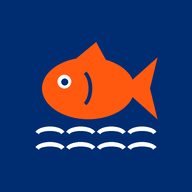
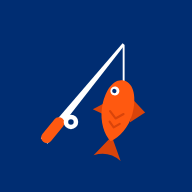
Neues App-Symbol: Angelrute mit gefangenem Fisch (#6)
- werkzeuge/symbol_erzeugen.js erzeugt alle Symbole aus einer Vorlage (Web + Android)
- alte Symbol-Programme entfernt, Offline-Speicher-Version erhöht
- Prüfung und Tagebuch ergänzt

Claude-Session: https://claude.ai/code/session_01PRfiDyBxwvKhtj8R6WgeQX

Changed region(s): [[0.1875, 0.2188, 0.8438, 0.8438]]

diff --git a/werkzeuge/symbol_erzeugen.js b/werkzeuge/symbol_erzeugen.js
@@ -1,0 +1,105 @@
+// Zeichnet das App-Symbol (Angelrute mit gefangenem Fisch) und erzeugt daraus:
+//   icons/symbol.svg, icons/icon-192.png, icons/icon-512.png, icons/apple-touch-icon.png, icons/favicon.png
+//   android/app/src/main/res/drawable/ic_launcher_foreground.xml
+// Start (im Projektordner): node werkzeuge/symbol_erzeugen.js     (braucht Playwright mit Chromium)
+// Das Motiv steht unten in MOTIV, Koordinaten 0..100. Alles bleibt im Kreis mit Radius 40 um die Mitte,
+// damit Android und Chrome es bei runden Symbolen nicht abschneiden.
+const fs = require('fs');
+const path = require('path');
+const ROOT = path.resolve(__dirname, '..');
+
+const BLAU = '#002D72', ORANGE = '#FF5910', ORANGE_DUNKEL = '#D9440A', WEISS = '#FFFFFF';
+
+const kreis = (cx, cy, r) => `M${cx - r},${cy} a${r},${r} 0 1,0 ${2 * r},0 a${r},${r} 0 1,0 ${-2 * r},0 Z`;
+
+// Der Fisch wird um sein Maul (66,41) gedreht, als würde er an der Schnur zappeln.
+// Ganzes Motiv etwas verkleinern, damit nichts über den Rand ragt.
+const MASSSTAB = 0.9;
+
+const FISCH_DREHUNG = { winkel: 12, x: 66, y: 41 };
+
+const MOTIV = [
+  // Schnur von der Rutenspitze zum Maul des Fisches
+  { stroke: WEISS, breite: 1.1, d: 'M66,21 L66,41.5' },
+  // Angelrute (wird zur Spitze hin dünner)
+  { fill: WEISS, d: 'M18.07,74.41 L65.38,19.49 L66.62,20.51 L21.93,77.59 Z' },
+  // Griff
+  { stroke: ORANGE, breite: 6.5, d: 'M21.5,74 L28.5,65.5' },
+  // Rolle
+  { fill: WEISS, d: kreis(35.5, 65, 4.2) },
+  { fill: BLAU, d: kreis(35.5, 65, 1.6) },
+  // ---- ab hier: Fisch (gedreht) ----
+  // Schwanzflosse
+  { fisch: true, fill: ORANGE_DUNKEL, d: 'M66,74 L58,87 Q66,82.5 74,87 Z' },
+  // Rückenflosse und Brustflosse
+  { fisch: true, fill: ORANGE_DUNKEL, d: 'M74,51 L82,56.5 L74.5,64 Z' },
+  { fisch: true, fill: ORANGE_DUNKEL, d: 'M58,56 L52,61 L58.3,62.5 Z' },
+  // Körper (hängt mit dem Maul nach oben)
+  { fisch: true, fill: ORANGE, d: 'M66,41 C72.5,41 75.5,50 75,59 C74.5,67 70.5,74 66,77 C61.5,74 57.5,67 57,59 C56.5,50 59.5,41 66,41 Z' },
+  // Schuppen-Andeutung
+  { fisch: true, stroke: ORANGE_DUNKEL, breite: 1.2, d: 'M62,60 L66,63.5 L70,60' },
+  { fisch: true, stroke: ORANGE_DUNKEL, breite: 1.2, d: 'M63,66 L66,68.8 L69,66' },
+  // Auge
+  { fisch: true, fill: WEISS, d: kreis(62.3, 48, 2.6) },
+  { fisch: true, fill: BLAU, d: kreis(62, 48.1, 1.25) },
+];
+
+function svgTeil(t) {
+  return t.fill
+    ? `<path fill="${t.fill}" d="${t.d}"/>`
+    : `<path fill="none" stroke="${t.stroke}" stroke-width="${t.breite}" stroke-linecap="round" stroke-linejoin="round" d="${t.d}"/>`;
+}
+
+function svg(groesse, rund = false) {
+  const { winkel, x, y } = FISCH_DREHUNG;
+  const teile = [
+    ...MOTIV.filter(t => !t.fisch).map(svgTeil),
+    `<g transform="rotate(${winkel} ${x} ${y})">`, ...MOTIV.filter(t => t.fisch).map(svgTeil), '</g>'];
+  const verschiebung = 50 * (1 - MASSSTAB);
+  const hg = rund ? `<rect width="100" height="100" rx="22" fill="${BLAU}"/>` : `<rect width="100" height="100" fill="${BLAU}"/>`;
+  return `<svg xmlns="http://www.w3.org/2000/svg" viewBox="0 0 100 100" width="${groesse}" height="${groesse}">${hg}<g transform="translate(${verschiebung} ${verschiebung}) scale(${MASSSTAB})">${teile.join('')}</g></svg>`;
+}
+
+function androidTeil(t, einzug) {
+  return einzug + (t.fill
+    ? `<path android:fillColor="${t.fill}" android:pathData="${t.d}" />`
+    : `<path android:strokeColor="${t.stroke}" android:strokeWidth="${t.breite}" android:strokeLineCap="round" android:strokeLineJoin="round" android:pathData="${t.d}" />`);
+}
+
+function androidXml() {
+  const { winkel, x, y } = FISCH_DREHUNG;
+  const teile = [
+    ...MOTIV.filter(t => !t.fisch).map(t => androidTeil(t, '        ')),
+    `        <group android:rotation="${winkel}" android:pivotX="${x}" android:pivotY="${y}">`,
+    ...MOTIV.filter(t => t.fisch).map(t => androidTeil(t, '            ')),
+    '        </group>'];
+  return `<?xml version="1.0" encoding="utf-8"?>
+<!-- Angelrute mit gefangenem Fisch (Mets-Farben). Erzeugt von werkzeuge/symbol_erzeugen.js – nicht von Hand ändern.
+     Motiv 0..100 wird in die sichtbare Mitte des Android-Bereichs 108x108 gesetzt. -->
+<vector xmlns:android="http://schemas.android.com/apk/res/android"
+    android:width="108dp" android:height="108dp"
+    android:viewportWidth="108" android:viewportHeight="108">
+    <group android:translateX="${(18 + 0.72 * 50 * (1 - MASSSTAB)).toFixed(3)}" android:translateY="${(18 + 0.72 * 50 * (1 - MASSSTAB)).toFixed(3)}" android:scaleX="${(0.72 * MASSSTAB).toFixed(4)}" android:scaleY="${(0.72 * MASSSTAB).toFixed(4)}">
+${teile.join('\n')}
+    </group>
+</vector>
+`;
+}
+
+(async () => {
+  const { chromium } = require('playwright');
+  fs.mkdirSync(path.join(ROOT, 'icons'), { recursive: true });
+  fs.writeFileSync(path.join(ROOT, 'icons/symbol.svg'), svg(512));
+  fs.writeFileSync(path.join(ROOT, 'android/app/src/main/res/drawable/ic_launcher_foreground.xml'), androidXml());
+
+  const browser = await chromium.launch();
+  const page = await browser.newPage();
+  const ziele = [['icon-192.png', 192, false], ['icon-512.png', 512, false], ['apple-touch-icon.png', 180, false], ['favicon.png', 64, true]];
+  for (const [name, g, rund] of ziele) {
+    await page.setViewportSize({ width: g, height: g });
+    await page.setContent(`<html><body style="margin:0;background:transparent">${svg(g, rund)}</body></html>`);
+    await page.screenshot({ path: path.join(ROOT, 'icons', name), omitBackground: true });
+  }
+  await browser.close();
+  console.log('Symbole erzeugt: icons/ und android/.../ic_launcher_foreground.xml');
+})();

diff --git a/sw.js b/sw.js
@@ -1,6 +1,6 @@
 // Service Worker: sorgt dafür, dass die App auch ohne Internet startet.
 // Bei Änderungen an der App die Versionsnummer erhöhen.
-const VERSION = 'fischfang-v2';
+const VERSION = 'fischfang-v3';
 const APP_DATEIEN = [
   './',
   './index.html',

diff --git a/test/pruefung.py b/test/pruefung.py
@@ -46,6 +46,9 @@ for icon in m.get("icons", []):
         pruefe(g == erwartet, f"{icon['src']} hat Größe {icon['sizes']} (ist {g})")
         groessen.add(icon["sizes"])
 pruefe({"192x192", "512x512"} <= groessen, "Symbole in 192 und 512 Pixel (nötig für Installation in Chrome)")
+pruefe((ROOT / "icons/symbol.svg").exists(), "Vorlage des Symbols vorhanden (icons/symbol.svg)")
+fg = (ROOT / "android/app/src/main/res/drawable/ic_launcher_foreground.xml").read_text(encoding="utf-8")
+pruefe("symbol_erzeugen.js" in fg, "Android-Symbol stammt aus derselben Vorlage wie die Web-Symbole")
 pruefe(any("maskable" in i.get("purpose", "") for i in m.get("icons", [])), "Symbol für runde Android-Form (maskable)")
 
 # 3. index.html verweist auf alles

diff --git a/CLAUDE.md b/CLAUDE.md
@@ -17,13 +17,12 @@ Fangort auf der Karte, Fischart, Größe, Notizen – per Hand oder per Sprache.
 | `Startbild.jpg` | Bild auf dem Startbildschirm |
 | `manifest.json` | „Steckbrief“ der App: Name, Symbol, Farben – damit man sie installieren kann |
 | `sw.js` | Offline-Helfer (Service Worker): speichert die App im Handy, damit sie ohne Internet startet |
-| `icons/` | App-Symbole (blauer Hintergrund, oranger Fisch) |
-| `werkzeuge/symbole_erzeugen.py` | Hilfsprogramm, das die Symbole neu zeichnet |
+| `icons/` | App-Symbole: weiße Angelrute mit gefangenem orangen Fisch auf Mets-Blau |
+| `werkzeuge/symbol_erzeugen.js` | Zeichnet das Symbol und erzeugt daraus alle Symbol-Dateien (Web + Android) |
 | `test/pruefung.py` | Automatische Prüfung |
 | `test/app_simulation.js` | Spielt die Android-App im Browser nach (Teil der Prüfung) |
 | `android/` | Eigene **Android-App** (siehe „Android-App“ unten) |
 | `.github/workflows/android-app.yml` | Baut die App-Datei (APK) automatisch bei GitHub |
-| `werkzeuge/android_symbol_erzeugen.py` | Zeichnet das Symbol der Android-App |
 | `CLAUDE.md` | Dieses Tagebuch |
 
 - **Aussehen:** Tailwind (fertige Design-Bausteine, aus dem Internet geladen)
@@ -80,7 +79,7 @@ Fangort auf der Karte, Fischart, Größe, Notizen – per Hand oder per Sprache.
 - **Zwei Wege, ein Code:** Die Seite bleibt als installierbare Web-App (PWA) online, und
   zusätzlich gibt es eine **richtige Android-App** (Wunsch des Nutzers, 19.11.2026), gebaut wie
   seine Fitness-App. Kein Play Store – die APK wird direkt von GitHub geladen.
-- Wenn sich Dateien der App ändern, in `sw.js` die Versionsnummer (`fischfang-v2`) erhöhen,
+- Wenn sich Dateien der App ändern, in `sw.js` die Versionsnummer (`fischfang-v3`) erhöhen,
   damit alte gespeicherte Versionen sicher ersetzt werden.
 
 ## 3. Verlauf
@@ -95,6 +94,7 @@ Fangort auf der Karte, Fischart, Größe, Notizen – per Hand oder per Sprache.
 | 18.11.2026 | Regel „Hilfsprogramme und Tests gehören ins Projekt“ eingetragen | #3 |
 | 19.11.2026 | Installierbar (eigenes Symbol, offline), Mets-Farben, erste automatische Prüfung | #4 |
 | 19.11.2026 | Richtige Android-App (Ordner `android/`), automatischer APK-Bau, App-Simulation im Test | #5 |
+| 19.11.2026 | Neues Symbol: Angelrute mit gefangenem Fisch (Wunsch des Nutzers, alter Fisch gefiel nicht) | #6 |
 
 ## 4. Offene Ideen / nächste Schritte
 
@@ -146,9 +146,10 @@ den Nutzer am Ende der Antwort:
   Fehlt Leaflet, wird die Simulation mit Hinweis übersprungen.
 - **Android-App:** wird bei jeder Änderung an `android/` von GitHub gebaut – ein
   erfolgreicher Bau ist die Prüfung, dass der Code übersetzbar ist.
-- **`python3 werkzeuge/android_symbol_erzeugen.py`** – zeichnet das Android-Symbol neu.
-- **`python3 werkzeuge/symbole_erzeugen.py`** – zeichnet die Symbole in `icons/` neu
-  (braucht das Python-Paket Pillow). Farben/Form stehen oben in der Datei.
+- **`node werkzeuge/symbol_erzeugen.js`** – zeichnet das App-Symbol (Angelrute mit Fisch) und
+  erzeugt daraus `icons/symbol.svg`, die PNG-Symbole der Web-App und das Android-Symbol
+  (`ic_launcher_foreground.xml`). Braucht Playwright. Motiv, Farben, Drehung des Fisches und
+  Größe stehen oben in der Datei – nur dort ändern, nie die erzeugten Dateien von Hand.
 - Vorschau-Bilder: Claude kann die App in der Sitzung mit Playwright im Handy-Format
   fotografieren; die Design-Bausteine aus dem Internet sind dort gesperrt und werden
   dafür lokal nachgebaut (nur für die Vorschau, nicht im Projekt).
@@ -157,13 +158,13 @@ den Nutzer am Ende der Antwort:
 - App auf dem Handy in Chrome öffnen und einen Fang per Sprache eintragen.
 - Standort zentrieren auf dem Handy ausprobieren (braucht GPS).
 - [ ] App in Chrome öffnen → Menü (⋮) → „App installieren“ bzw. „Zum Startbildschirm hinzufügen“.
-- [ ] Auf dem Startbildschirm erscheint das Symbol (blauer Hintergrund, oranger Fisch).
+- [ ] Auf dem Startbildschirm erscheint das Symbol (Angelrute mit orangem Fisch auf Blau).
 - [ ] App über das Symbol öffnen: keine Adressleiste, Statusleiste oben blau.
 - [ ] Farben: Blau/Orange überall, Mikrofon-Knopf orange.
 - [ ] Flugmodus an → App öffnen: Sie startet, Liste und Statistik gehen (Karte bleibt grau).
 - **Android-App:**
 - [ ] APK herunterladen und installieren (Play Protect: „App scannen“ reicht).
-- [ ] Symbol „Fischfang“ (oranger Fisch auf Blau) erscheint in der App-Liste.
+- [ ] Symbol „Fischfang“ (Angelrute mit orangem Fisch auf Blau) erscheint in der App-Liste, nichts abgeschnitten.
 - [ ] App öffnen: keine Adressleiste; Frage nach Standort-Erlaubnis → erlauben → Standort auf der Karte.
 - [ ] Mikrofon-Knopf: Android-Sprachfenster erscheint, „Zander 65 Zentimeter“ → Fang wird eingetragen.
 - [ ] „Sichern“: Speicherort wählen, Datei wird gespeichert, Hinweis „zuletzt gesichert“ ist aktuell.
